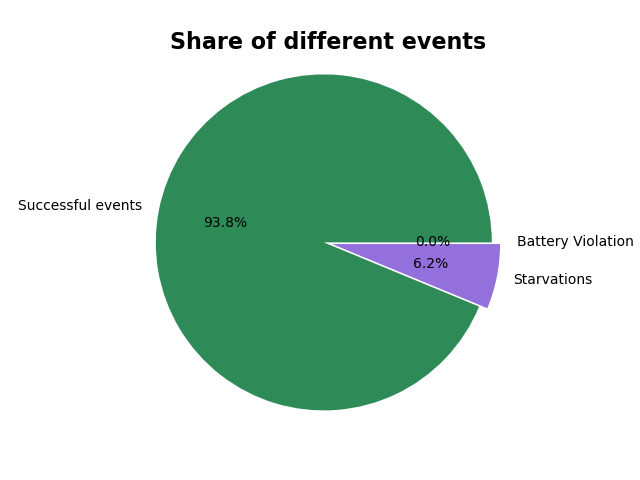
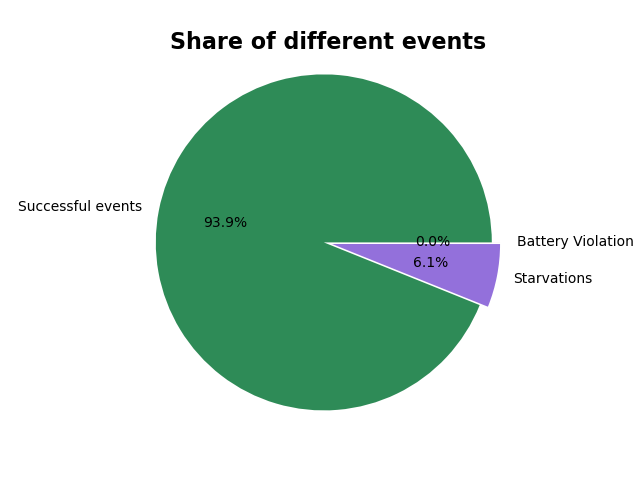
test a run on seed 2

diff --git a/policies/hlm/Criticality_score.py b/policies/hlm/Criticality_score.py
@@ -38,7 +38,7 @@ def calculate_net_demand(station, time_now, day, hour, planning_horizon):
 
 
 
-def calculate_criticality(weights, simul, potential_stations, station, station_type,total_num_bikes_in_system, visited_stations = None):
+def calculate_criticality(weights, simul, potential_stations, station, station_type, total_num_bikes_in_system, visited_stations = None):
 
     #This is where we have to add one weight for battery level if nessesary
 
@@ -53,7 +53,10 @@ def calculate_criticality(weights, simul, potential_stations, station, station_t
     neighborhood_crit_list = [] 
     demand_crit_list = []
     driving_time_list = [] 
-    BL_composition_list = []
+    BL_composition_list = [calculate_battery_level_composition_criticality(simul, p_station, total_num_bikes_in_system) for p_station in potential_stations]
+
+    if sum(BL_composition_list) == 0:
+        print('no bikes')
 
     #Calculate criticality scoore for each potential station
     for potential_station in potential_stations:

diff --git a/policies/hlm/run_simulations.py b/policies/hlm/run_simulations.py
@@ -18,7 +18,7 @@ from helpers import timeInMinutes
 import time
 import multiprocessing as mp
 
-INIT_DURATION = 24*5
+INIT_DURATION = 24*1
 NUM_VEHICLES = 1
 
 def run_simulation(seed, policy, duration= INIT_DURATION, num_vehicles= NUM_VEHICLES, queue=None, INSTANCE=None):
@@ -190,8 +190,8 @@ if __name__ == "__main__":
 
   
     # list_of_seeds=[10,11,12,13,14,15,16,17,18,19]
-    list_of_seeds=[0,1,2,3,4,5,6,7,8,9,10,11,12,13,14,15,16,17,18,19]
-    # list_of_seeds = [5]
+    # list_of_seeds=[0,1,2,3,4,5,6,7,8,9,10,11,12,13,14,15,16,17,18,19]
+    list_of_seeds = [2]
   
     start_time = time.time()
     # test_evaluation_weights(list_of_seeds=list_of_seeds, evaluation_weights_dict=evaluation_weights)
